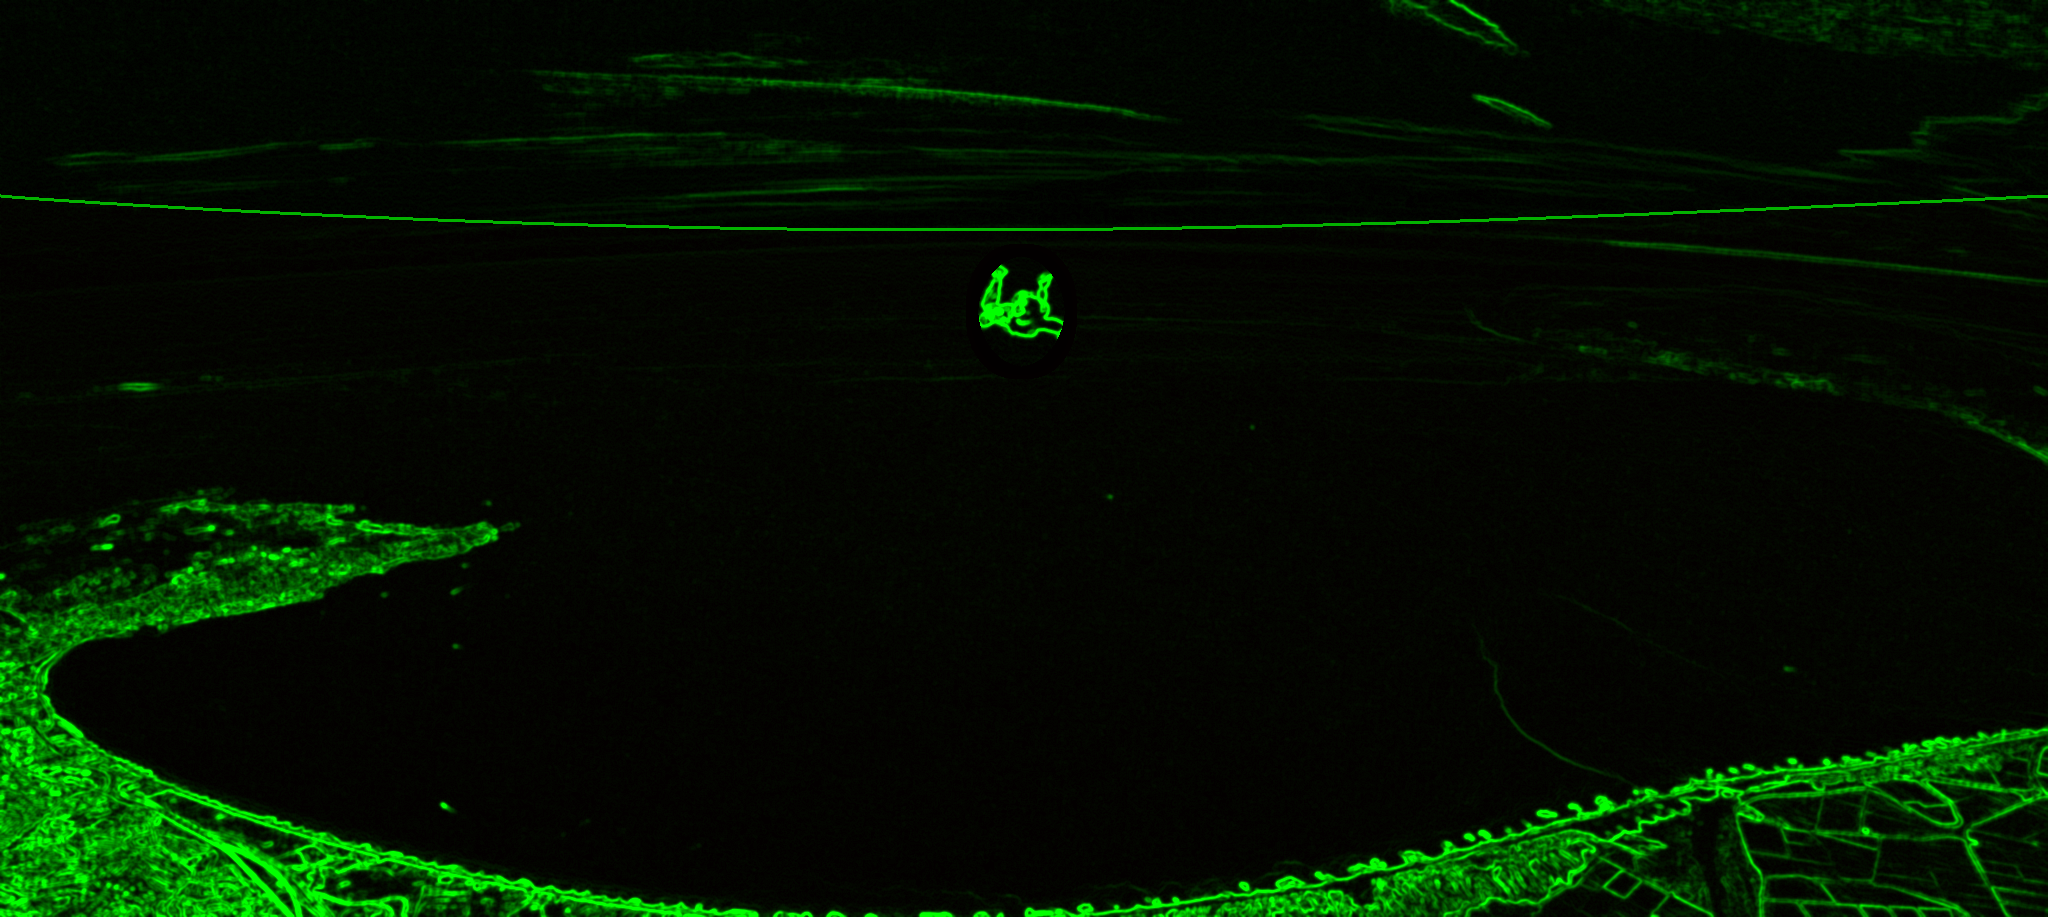
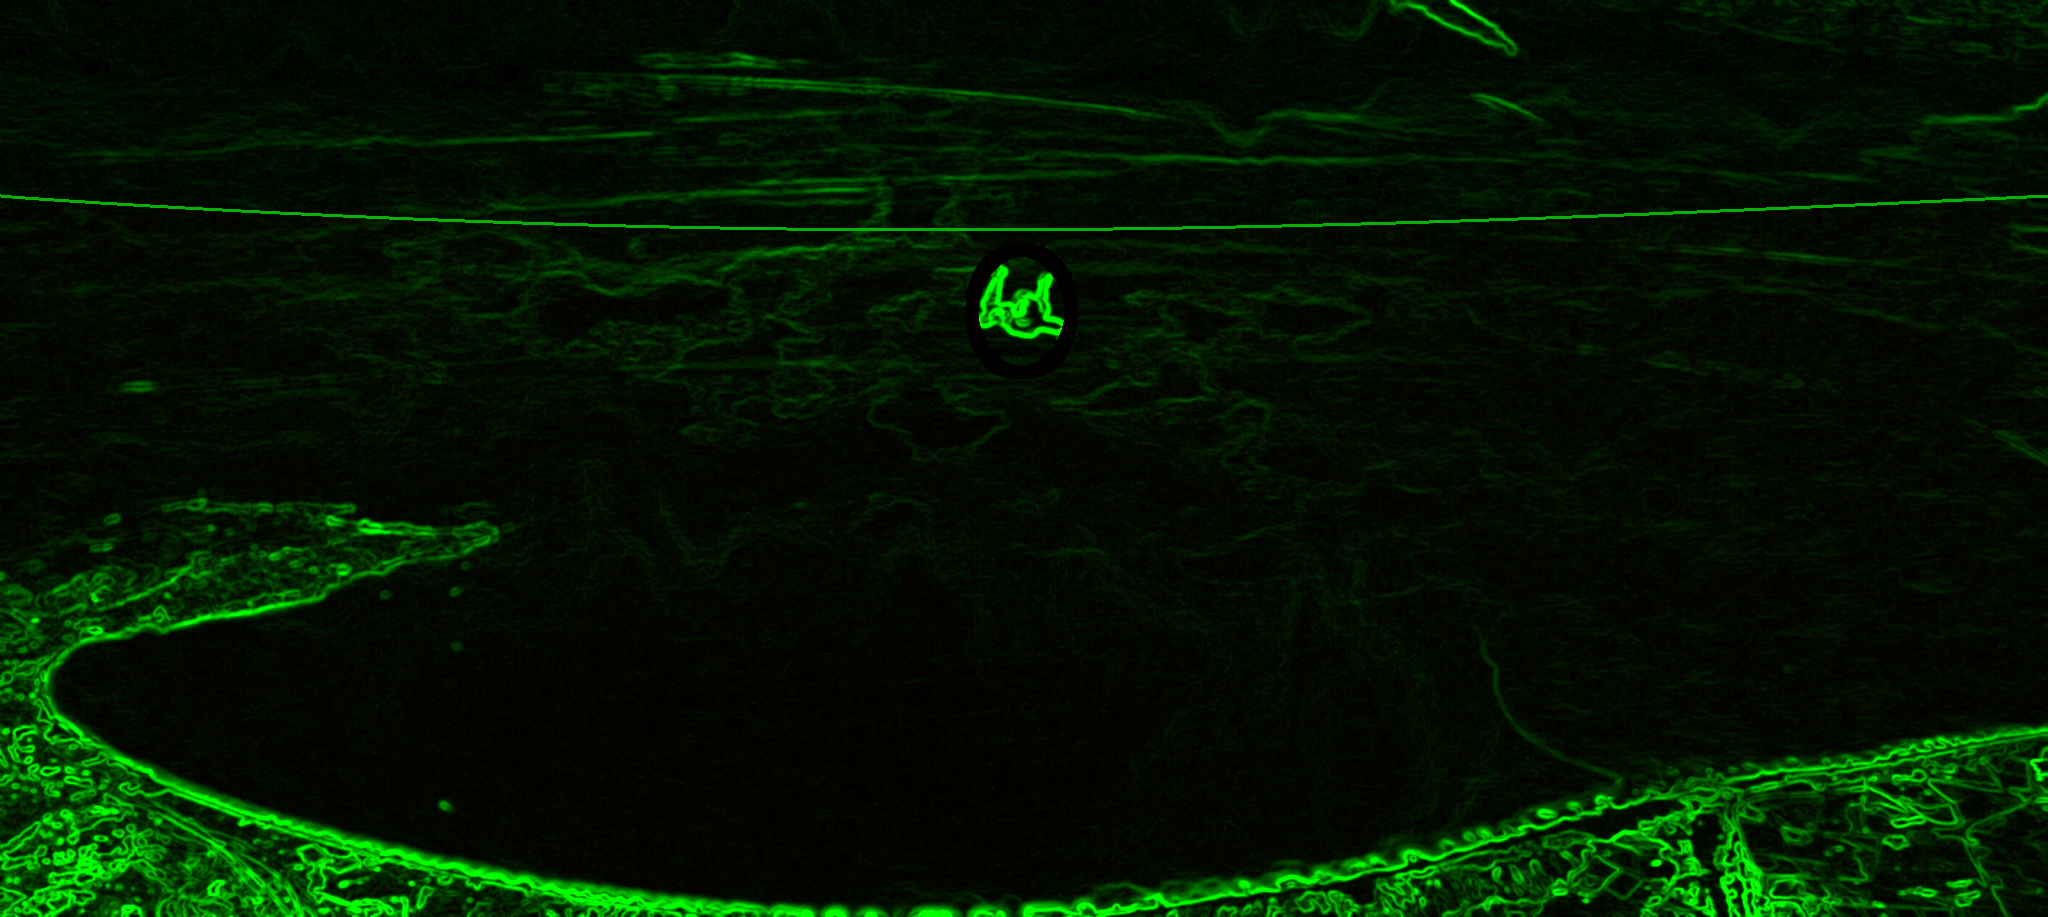
Fix bake source: texture was the raw photo, not the watercolor
The bake read backgrounds/light/monterey_bay_watercolor.png — which my
earlier rename/copy had left as the raw photo. Restored the subagent's
watercolor (from commit d8d60c8) as the bake source and rebaked
bay-planes/bay-mask. Also:

- shaders map window pixels to painting rows per plane band (sky stretched
  from window top to the split, bay from the split to the bottom), x stays
  width-fit — planes pull apart like a puzzle, no global stretch
- uPaintSize is set every frame from stored meta (was racing the first draw)
- modules rethrow load errors so bay-site's fallback + retry actually see them
- ASSET_V cache-busting for the baked textures

diff --git a/assets/js/kea/bay-body.js b/assets/js/kea/bay-body.js
@@ -18,7 +18,8 @@ window.mountBayBody = function mountBayBody(container, {
 
     const fs = `precision highp float;
     uniform vec2 uRes;
-    uniform float uT;              // seconds, for the wash drift
+    uniform vec2 uPaintSize;      // the painting's dimensions, px
+    uniform float uT;             // seconds, for the wash drift
     uniform sampler2D uPaint, uMask;
 
 
@@ -38,16 +39,14 @@ window.mountBayBody = function mountBayBody(container, {
     }
 
     void main() {
-        vec2 uv = gl_FragCoord.xy / uRes;
-        // The painting is fitted so its top edge sits at the window top and
-        // its bottom edge at the window bottom (cover on the short axis):
-        // above the painting, the sky's top row extends; below it, the bay's
-        // bottom row does. uPaintFit carries the contained rect (x, y, w, h)
-        // in window px; sampling clamps into it, so the fills are the
-        // painting's own colours and the diver stays mid-window.
-        vec2 px = uv * uRes;
-        vec2 rel = (px - uPaintFit.xy) / uPaintFit.zw;
-        vec2 tcoord = clamp(rel, 0.0, 1.0);
+        vec2 uv = gl_FragCoord.xy / uRes;          // uv.y = 0 at BOTTOM
+        // The window splits into a sky band (top) and a bay band (bottom).
+        // Each painting band is stretched to fill its window band vertically;
+        // x stays uniform (width-fit), so nothing stretches horizontally.
+        // Contain the painting at width-fit scale, centred vertically; its
+        // top row extends upward as sky, its bottom row downward as ocean.
+        float top = (uRes.y - uPaintSize.y * (uRes.x / uPaintSize.x)) * 0.5;
+        vec2 tcoord = clamp(vec2(uv.x, (uv.y * uRes.y - top) / (uPaintSize.y * (uRes.x / uPaintSize.x))), 0.0, 1.0);
         vec4 m = texture2D(uMask, tcoord);
         float plane = m.r * 255.0;
         float ink = m.g;
@@ -62,16 +61,10 @@ window.mountBayBody = function mountBayBody(container, {
             uv2 = warp(tcoord, uT, 0.0018, 0.010) + vec2(0.0, 0.0015 * noise(tcoord * 2.0 + uT * 0.011));
         }
         vec4 c = texture2D(uPaint, uv2);
-        // NOTE: the diver plane is NOT punched here. bay-dive.js paints a
-        // tight opaque disc over it; at rest the disc's pixels are identical
-        // to the painting below, so no seam shows. A punched hole would flash
-        // the page background whenever the disc's coverage dips.
         // ink wicks along paper fibres where the mask says an edge was inked:
-        // the line darkens and grows faint hairy side-lines that drift slowly
         float fibre = noise(uv * vec2(90.0, 130.0) + vec2(uT * 0.015, 0.0));
         float line = ink * (0.85 + 0.3 * fibre);
         c.rgb *= 1.0 - 0.16 * line;
-        // faint ink hairs beside strong lines, strongest on the coastline
         float hairs = ink > 0.4 ? (noise(uv * 55.0 + vec2(0.0, uT * 0.02)) - 0.5) * 0.10 * ink : 0.0;
         c.rgb *= 1.0 - max(hairs, 0.0);
 
@@ -116,26 +109,16 @@ window.mountBayBody = function mountBayBody(container, {
 
     const load = src => new Promise((ok, fail) => { const i = new Image(); i.onload = () => ok(i); i.onerror = fail; i.src = src; });
     const ready = Promise.all([fetch(metaUrl).then(r => r.json()), load(planes), load(mask)])
-        .then(([, paint, maskImg]) => {
+        .then(([m, paint, maskImg]) => {
+            meta = { width: m.width, height: m.height };
             upload(0, paint);
             upload(1, maskImg);
             gl.uniform1i(U('uPaint'), 0);
             gl.uniform1i(U('uMask'), 1);
-            return meta => meta;
         })
-        .catch(e => { onFail && onFail(String(e)); return null; });
+        .catch(e => { onFail && onFail(String(e)); throw e; });   // reject: the site's fallback handles it
 
-    let raf = 0, t0 = 0;
-    // The painting at 2048x917 sits in the window at "cover" scale, anchored
-    // so its top edge is the window top and its bottom edge the window bottom;
-    // the shader clamps samples into this rect, extending sky upward and bay
-    // downward with the painting's own colours.
-    const PAINT_W = 2048, PAINT_H = 917;
-    function fitRect(w, h) {
-        const scale = Math.max(w / PAINT_W, h / PAINT_H);
-        const pw = PAINT_W * scale, ph = PAINT_H * scale;
-        return { x: (w - pw) / 2, y: (h - ph) / 2, w: pw, h: ph };
-    }
+    let raf = 0, t0 = 0, meta = null;
     function draw(now) {
         const dpr = Math.min(2, window.devicePixelRatio || 1);
         const w = Math.round(canvas.clientWidth * dpr), h = Math.round(canvas.clientHeight * dpr);
@@ -143,8 +126,7 @@ window.mountBayBody = function mountBayBody(container, {
         if (canvas.width !== w || canvas.height !== h) { canvas.width = w; canvas.height = h; }
         gl.viewport(0, 0, w, h);
         gl.uniform2f(U('uRes'), w, h);
-        const f = fitRect(w, h);
-        gl.uniform4f(U('uPaintFit'), f.x, f.y, f.w, f.h);
+        if (meta) gl.uniform2f(U('uPaintSize'), meta.width, meta.height);
         gl.uniform1f(U('uT'), (now - t0) / 1000);
         gl.drawArrays(gl.TRIANGLES, 0, 3);
         raf = requestAnimationFrame(draw);

diff --git a/assets/js/kea/bay-dive.js b/assets/js/kea/bay-dive.js
@@ -18,7 +18,6 @@ window.mountBayDive = function mountBayDive(container, {
 
     const fs = `precision highp float;
     uniform vec2 uRes, uPaintSize;
-    uniform vec4 uPaintFit;  // contained painting rect in window px
     uniform float uT;
     uniform vec2 uPitch;     // tilt as (cos, sin) of the fall-line angle
     uniform float uSpeed;    // 0 at rest -> 1 flat-spinning
@@ -35,14 +34,15 @@ window.mountBayDive = function mountBayDive(container, {
                    mix(hash(i + vec2(0.0, 1.0)), hash(i + vec2(1.0, 1.0)), f.x), f.y);
     }
 
+    // Same puzzle mapping as bay-body.js: sky band stretched from the window
+    // top to uSplit, bay band from uSplit to the bottom; the diver's disc
+    // lands where the painting's diver sits inside the sky band.
     void main() {
         vec2 uv = gl_FragCoord.xy / uRes;
-        // Same fit as bay-body.js: the painting covers the window, its top
-        // edge at the window top and bottom edge at the window bottom. The
-        // diver cutout lands where the painting's diver sits, mid-window.
-        vec2 px = uv * uRes;
-        vec2 rel = (px - uPaintFit.xy) / uPaintFit.zw;
-        vec2 tcoord = clamp(rel, 0.0, 1.0);              // painting px, y down
+        // Contain the painting at width-fit scale, centred vertically; its
+        // top row extends upward as sky, its bottom row downward as ocean.
+        float top = (uRes.y - uPaintSize.y * (uRes.x / uPaintSize.x)) * 0.5;
+        vec2 tcoord = clamp(vec2(uv.x, (uv.y * uRes.y - top) / (uPaintSize.y * (uRes.x / uPaintSize.x))), 0.0, 1.0);
         vec2 pc = tcoord * uPaintSize;
         vec2 d = pc - uDiver;
 
@@ -120,7 +120,7 @@ window.mountBayDive = function mountBayDive(container, {
     // damped springs, exactly the kea's head logic
     const spring = (k, zeta) => ({ v: 0, target: 0, value: 0, k, c: 2 * zeta * Math.sqrt(k) });
     const pitch = spring(30, 0.55), speed = spring(20, 0.8);
-    let pointer = null, raf = 0, last = 0, fidgetT = 0;
+    let pointer = null, raf = 0, last = 0, fidgetT = 0, meta = null;
     function tick(now) {
         const dt = Math.min((now - last) / 1000, 0.05); last = now;
         // The pointer's pull drives the fall-line: the diver banks toward it.
@@ -141,15 +141,6 @@ window.mountBayDive = function mountBayDive(container, {
         // keep drawing while visible: the canvas composites over the wash layer
         raf = document.hidden ? 0 : requestAnimationFrame(tick);
     }
-    // The painting's contained rect in the window — must match bay-body.js
-    // exactly so both layers' mappings agree (top edge at window top, bottom
-    // at window bottom, centred on x).
-    const PAINT_W = 2048, PAINT_H = 917;
-    function fitRect(w, h) {
-        const scale = Math.max(w / PAINT_W, h / PAINT_H);
-        const pw = PAINT_W * scale, ph = PAINT_H * scale;
-        return { x: (w - pw) / 2, y: (h - ph) / 2, w: pw, h: ph };
-    }
     function draw(now) {
         const dpr = Math.min(2, window.devicePixelRatio || 1);
         const w = Math.round(canvas.clientWidth * dpr), h = Math.round(canvas.clientHeight * dpr);
@@ -159,8 +150,7 @@ window.mountBayDive = function mountBayDive(container, {
         gl.clearColor(0, 0, 0, 0);
         gl.clear(gl.COLOR_BUFFER_BIT);
         gl.uniform2f(U('uRes'), w, h);
-        const f = fitRect(w, h);
-        gl.uniform4f(U('uPaintFit'), f.x, f.y, f.w, f.h);
+        if (meta) gl.uniform2f(U('uPaintSize'), meta.width, meta.height);
         gl.uniform1f(U('uT'), now / 1000);
         gl.uniform2f(U('uPitch'), Math.cos(pitch.value), Math.sin(pitch.value));
         gl.uniform1f(U('uSpeed'), Math.max(0, Math.min(1, speed.value)));
@@ -182,16 +172,16 @@ window.mountBayDive = function mountBayDive(container, {
 
     const load = src => new Promise((ok, fail) => { const i = new Image(); i.onload = () => ok(i); i.onerror = fail; i.src = src; });
     const loaded = Promise.all([fetch(metaUrl).then(r => r.json()), load(planes), load(mask)])
-        .then(([meta, paint, maskImg]) => {
+        .then(([m, paint, maskImg]) => {
+            meta = m;
             upload(0, paint); upload(1, maskImg);
             gl.uniform1i(U('uPaint'), 0);
             gl.uniform1i(U('uMask'), 1);
-            gl.uniform2f(U('uPaintSize'), meta.width, meta.height);
             gl.uniform2f(U('uDiver'), meta.diver.x, meta.diver.y);
             gl.uniform1f(U('uDiverR'), meta.diver.r);
             wake();
         })
-        .catch(e => { onFail && onFail(String(e)); });
+        .catch(e => { onFail && onFail(String(e)); throw e; });   // reject: the site's fallback handles it
 
     return { canvas, ready: loaded, wake };
 };

diff --git a/assets/js/kea/bay-site.js b/assets/js/kea/bay-site.js
@@ -5,15 +5,19 @@
 (function () {
   if (matchMedia('(prefers-reduced-motion: reduce)').matches) return;
 
-  var stage = document.createElement('div');
-  stage.id = 'bay-stage';
-  stage.setAttribute('aria-hidden', 'true');
+  // Bump ASSET_V whenever tools/bake-bay.py rewrites the textures/metadata:
+  // the browser otherwise serves the stale cached bake for the bare URLs.
+  var ASSET_V = '2';
 
   function mount() {
+    var stage = document.createElement('div');
+    stage.id = 'bay-stage';
+    stage.setAttribute('aria-hidden', 'true');
+    var ASSET_V = '7';
     var opts = {
-      planes: '/assets/images/kea/bay-planes.png',
-      mask: '/assets/images/kea/bay-mask.png',
-      meta: '/assets/images/kea/bay.json',
+      planes: '/assets/images/kea/bay-planes.png?v=' + ASSET_V,
+      mask: '/assets/images/kea/bay-mask.png?v=' + ASSET_V,
+      meta: '/assets/images/kea/bay.json?v=' + ASSET_V,
       onFail: function () { stage.remove(); }
     };
     var body = mountBayBody(stage, opts);
@@ -26,22 +30,33 @@
     document.body.appendChild(stage);
     // Hide the static photo only once both live layers have actually painted:
     // has-bay before that would flash the page background instead.
-    Promise.all([body.ready, dive.ready]).then(function () {
-      // two frames out: both raf loops have composed at least one frame
-      requestAnimationFrame(function () {
+    return Promise.all([body.ready, dive.ready]).then(function () {
+      return new Promise(function (resolve) {
+        // two frames out: both raf loops have composed at least one frame
         requestAnimationFrame(function () {
-          document.documentElement.classList.add('has-bay');
+          requestAnimationFrame(resolve);
         });
       });
-    }).catch(function () {
-      // either layer failed: fall back to the static photo
+    }).then(function () {
+      document.documentElement.classList.add('has-bay');
+    }).catch(function (e) {
+      console.error('bay mount failed:', e && e.message || e);
       stage.remove();
+      throw e;
+    });
+  }
+
+  function start(attempt) {
+    mount().catch(function () {
+      // transient load failures happen (six parallel fetches on a cold cache);
+      // one retry before falling back to the static photo
+      if (attempt < 1) setTimeout(function () { start(attempt + 1); }, 800);
     });
   }
 
   if (document.readyState === 'loading') {
-    document.addEventListener('DOMContentLoaded', mount);
+    document.addEventListener('DOMContentLoaded', function () { start(0); });
   } else {
-    mount();
+    start(0);
   }
 })();

diff --git a/404.html b/404.html
@@ -45,9 +45,9 @@
   <script src="/assets/js/background-selections.js?v=1" defer></script>
   <script src="/assets/js/site.js?v=19" defer></script>
   <script src="/assets/js/gallery.js?v=4" defer></script>
-  <script src="/assets/js/kea/bay-body.js?v=7" defer></script>
-  <script src="/assets/js/kea/bay-dive.js?v=16" defer></script>
-  <script src="/assets/js/kea/bay-site.js?v=3" defer></script>
+  <script src="/assets/js/kea/bay-body.js?v=20" defer></script>
+  <script src="/assets/js/kea/bay-dive.js?v=25" defer></script>
+  <script src="/assets/js/kea/bay-site.js?v=8" defer></script>
 </head>
 
 <body>

diff --git a/index.html b/index.html
@@ -48,9 +48,9 @@
   <script src="assets/js/background-rows.js?v=3" defer></script>
   <script src="assets/js/site.js?v=19" defer></script>
   <script src="assets/js/gallery.js?v=4" defer></script>
-  <script src="assets/js/kea/bay-body.js?v=7" defer></script>
-  <script src="assets/js/kea/bay-dive.js?v=16" defer></script>
-  <script src="assets/js/kea/bay-site.js?v=3" defer></script>
+  <script src="assets/js/kea/bay-body.js?v=20" defer></script>
+  <script src="assets/js/kea/bay-dive.js?v=25" defer></script>
+  <script src="assets/js/kea/bay-site.js?v=8" defer></script>
 </head>
 
 <body class="home">

diff --git a/cv.html b/cv.html
@@ -48,9 +48,9 @@
   <script src="assets/js/background-rows.js?v=3" defer></script>
   <script src="assets/js/site.js?v=19" defer></script>
   <script src="assets/js/gallery.js?v=4" defer></script>
-  <script src="assets/js/kea/bay-body.js?v=7" defer></script>
-  <script src="assets/js/kea/bay-dive.js?v=16" defer></script>
-  <script src="assets/js/kea/bay-site.js?v=3" defer></script>
+  <script src="assets/js/kea/bay-body.js?v=20" defer></script>
+  <script src="assets/js/kea/bay-dive.js?v=25" defer></script>
+  <script src="assets/js/kea/bay-site.js?v=8" defer></script>
 </head>
 
 <body>

diff --git a/research.html b/research.html
@@ -48,9 +48,9 @@
   <script src="assets/js/background-rows.js?v=3" defer></script>
   <script src="assets/js/site.js?v=19" defer></script>
   <script src="assets/js/gallery.js?v=4" defer></script>
-  <script src="assets/js/kea/bay-body.js?v=7" defer></script>
-  <script src="assets/js/kea/bay-dive.js?v=16" defer></script>
-  <script src="assets/js/kea/bay-site.js?v=3" defer></script>
+  <script src="assets/js/kea/bay-body.js?v=20" defer></script>
+  <script src="assets/js/kea/bay-dive.js?v=25" defer></script>
+  <script src="assets/js/kea/bay-site.js?v=8" defer></script>
 </head>
 
 <body>

diff --git a/tools/bake-bay.py b/tools/bake-bay.py
@@ -92,13 +92,30 @@ mask[..., 3] = 255
 Image.fromarray(mask, "RGBA").save(IMG / "bay-mask.png")
 img.save(IMG / "bay-planes.png")
 
-# --------------------------------------------------------------- metadata ---
+# Plane bands, painting px (y down): the shader pulls the three planes apart
+# like a puzzle — sky band pinned to the window top, bay band to the window
+# bottom, diver kept at its painted offset from the diver centre. Each band
+# keeps its own aspect (no stretching); the gaps between them are filled by
+# clamped samples of the band's own colours.
+sky_bottom = int(np.max(horizon))            # lowest reach of the sky band
+sky_top = 0
+bay_top = int(np.min(horizon))               # highest reach of the bay band
+bay_bottom = H
+diver_band = {"top": DIV["y"] - int(DIV["r"] * 1.25) - 4,
+              "bottom": DIV["y"] + int(DIV["r"] * 1.25) + 4,
+              "x0": DIV["x"] - int(DIV["r"]) - 4,
+              "x1": DIV["x"] + int(DIV["r"]) + 4}
 meta = {
     "width": W, "height": H,
     "horizon_y": horizon_y,
     "diver": DIV,
     "planes": {"sky": 1, "diver": 2, "bay": 3},
     "ink_scale": 3.2,
+    "bands": {
+        "sky": {"top": sky_top, "bottom": sky_bottom},
+        "bay": {"top": bay_top, "bottom": bay_bottom},
+        "diver": diver_band,
+    },
 }
 (IMG / "bay.json").write_text(json.dumps(meta, indent=2))
 print(f"baked: horizon_y={horizon_y} diver=({DIV['x']},{DIV['y']}) r={DIV['r']} -> {IMG}")
